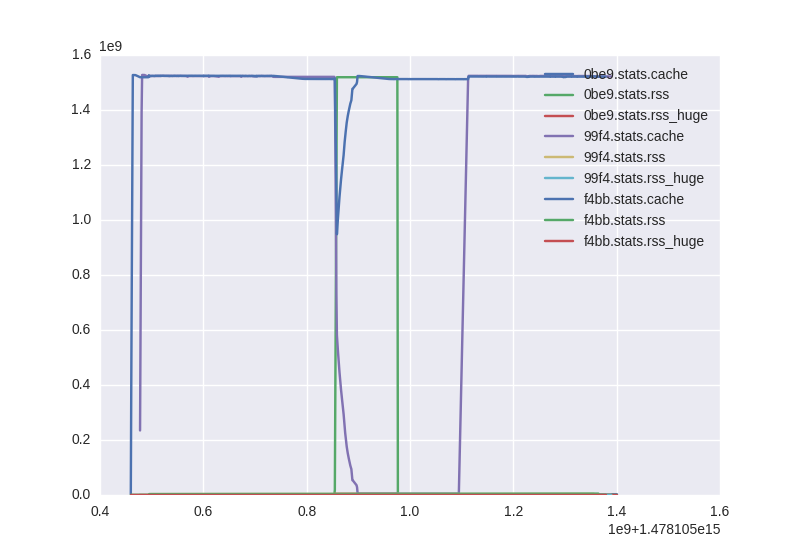
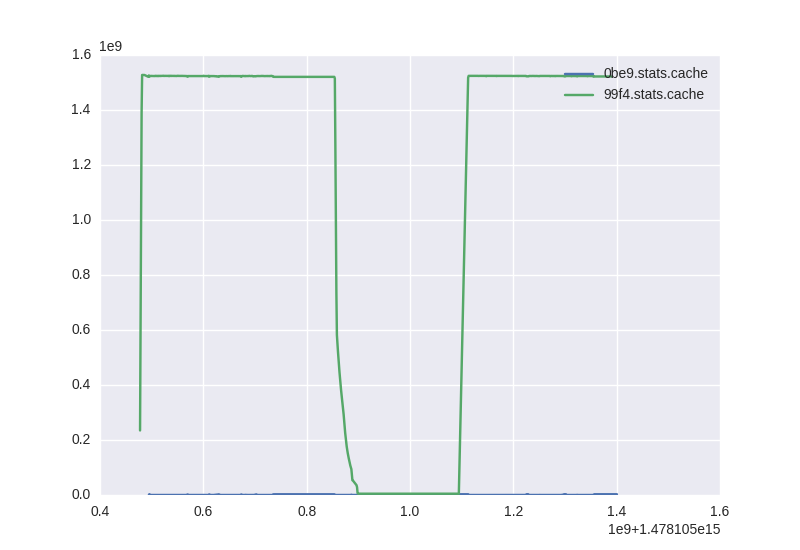
select cid

diff --git a/doc/tasks/showThatConsolidation/doesnotwork/readme.md b/doc/tasks/showThatConsolidation/doesnotwork/readme.md
@@ -7,5 +7,5 @@
 # Memo
 ```
 ../../../../csv2img.py <(grep -E 'IO.*mb' <(cat data/*/perf.csv) | cat <(echo 'x,y,label') -) perf.png
-../../../../csv2img.py <(grep -E '\.stats\.cache|\.stats\.rss' <(cat data/*/memory.csv) | cat <(echo 'x,y,label') -) memory.png
+../../../../csv2img.py <(grep -E '0be9\.stats\.cache|99f4\.stats\.cache|f4bb\.stats\.rss$' <(cat data/*/memory.csv) | cat <(echo 'x,y,label') -) memory.png
 ```
